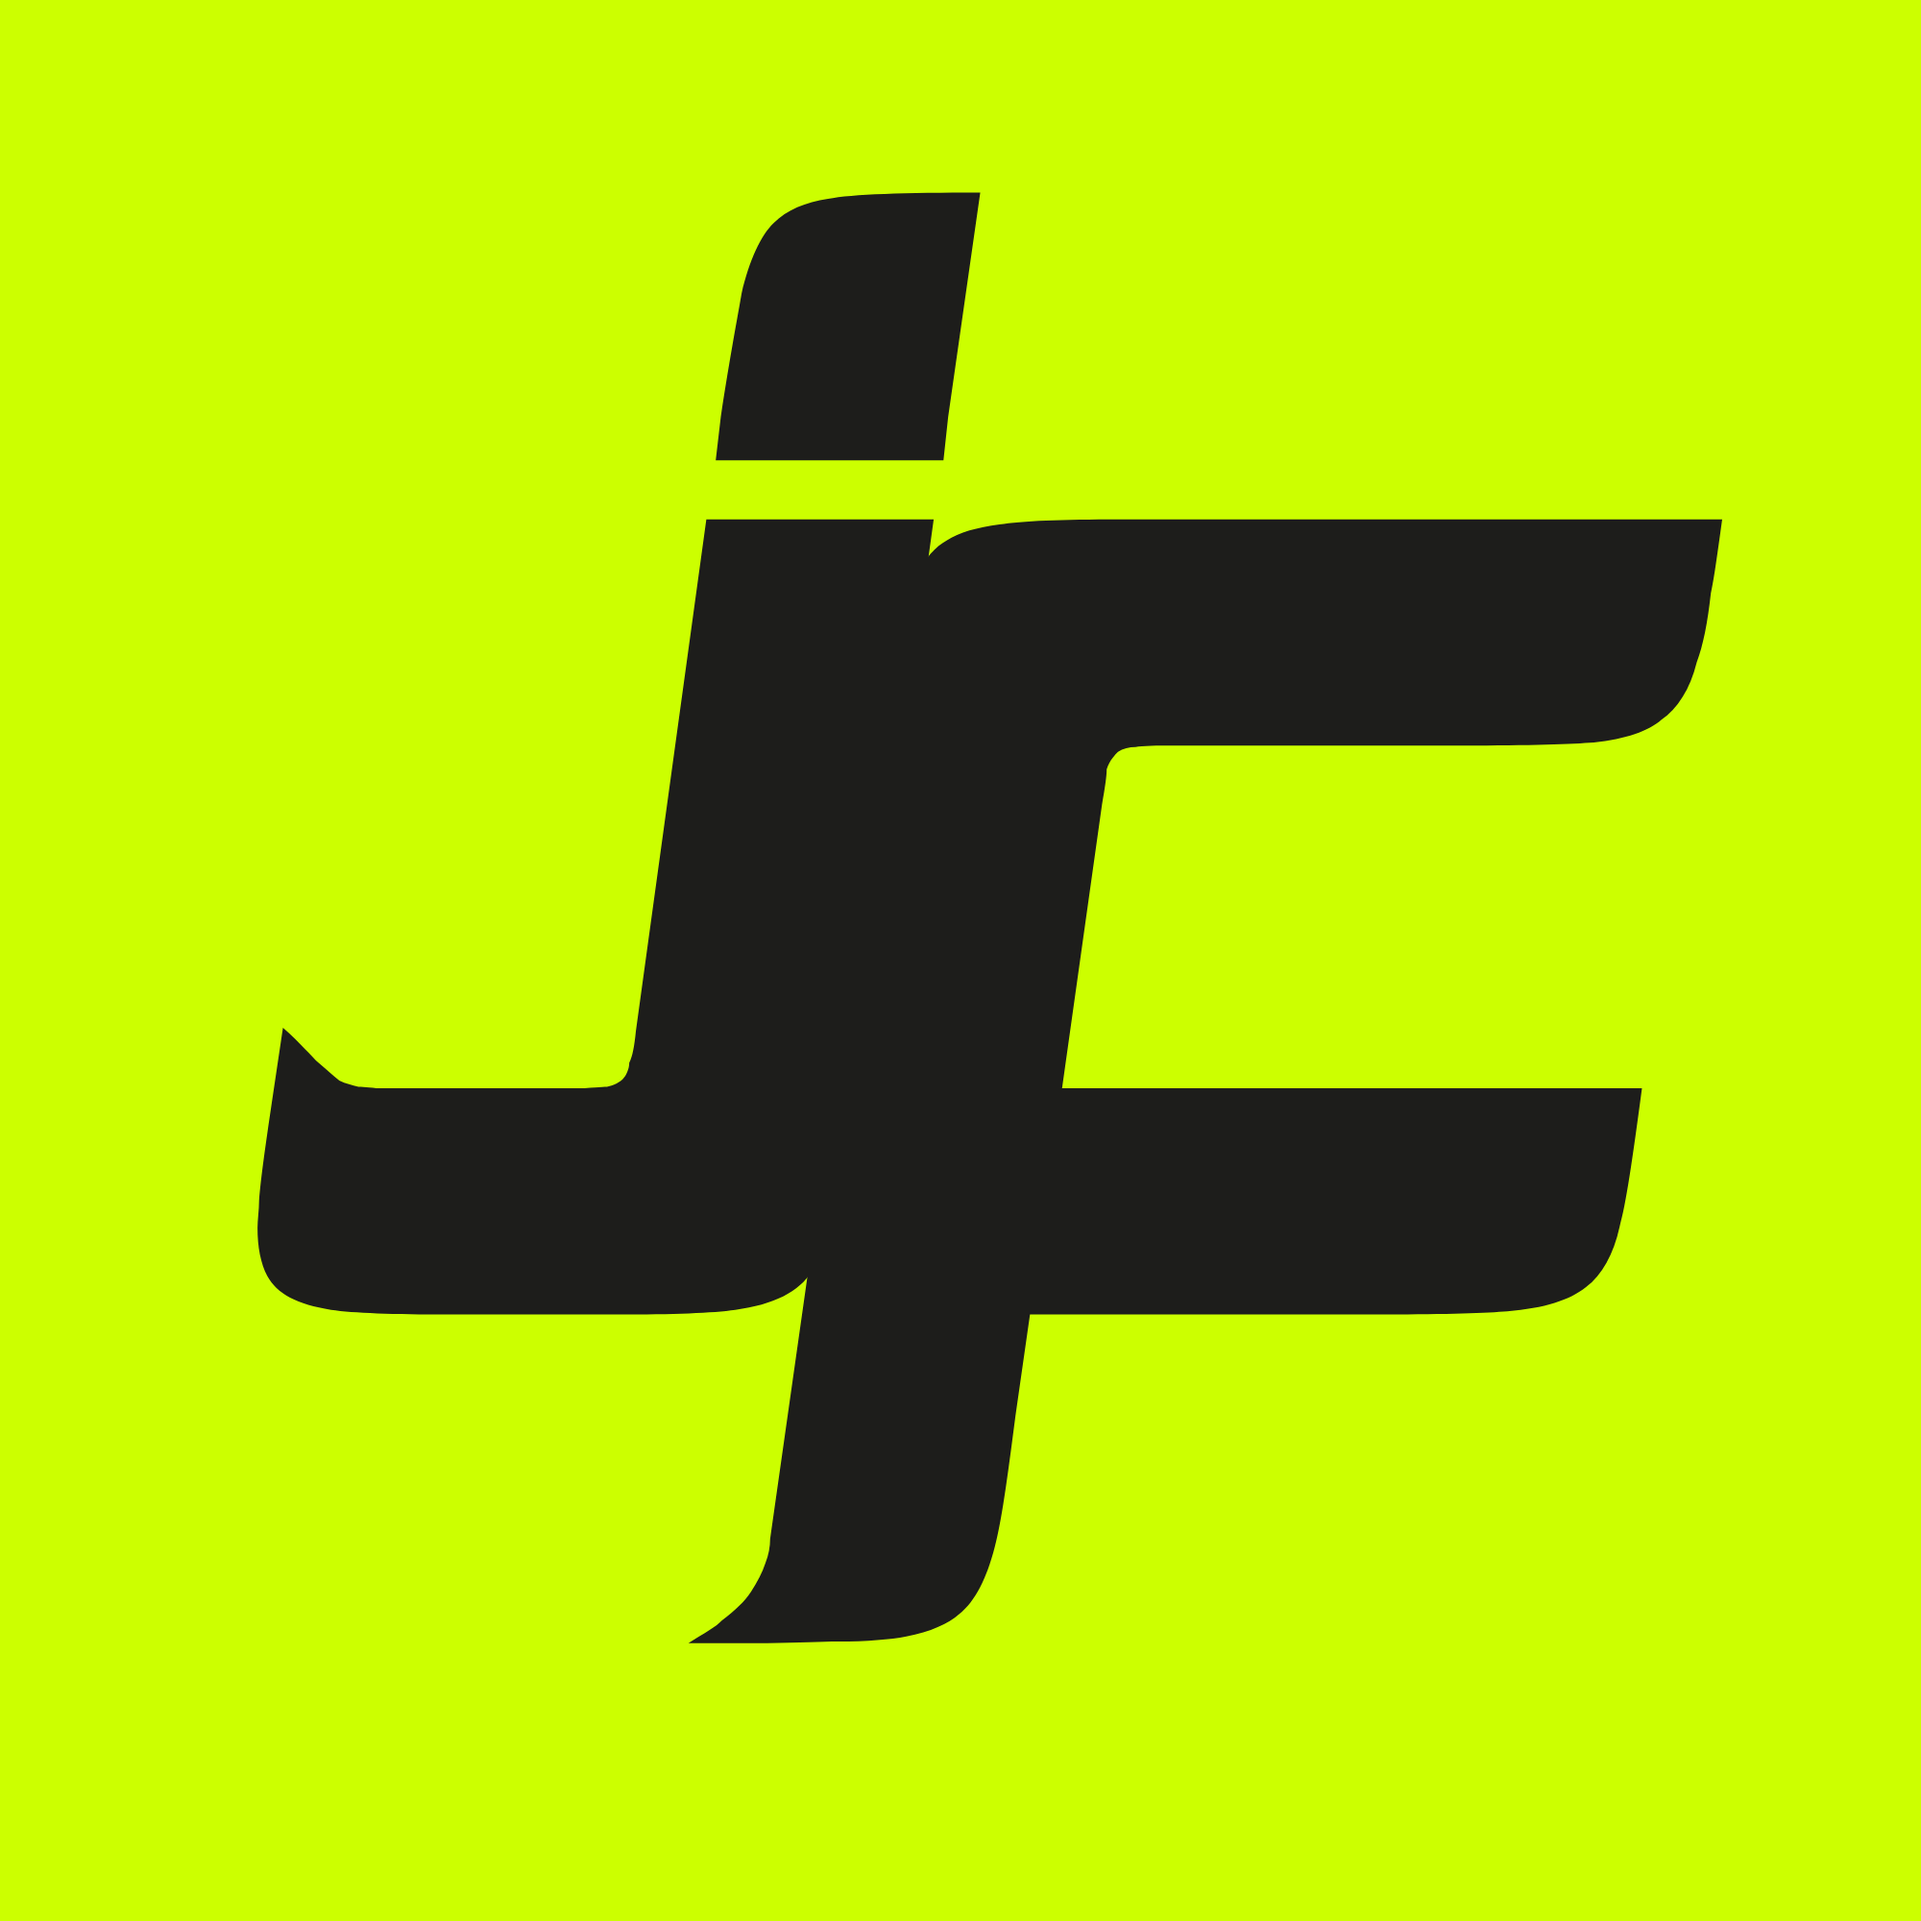
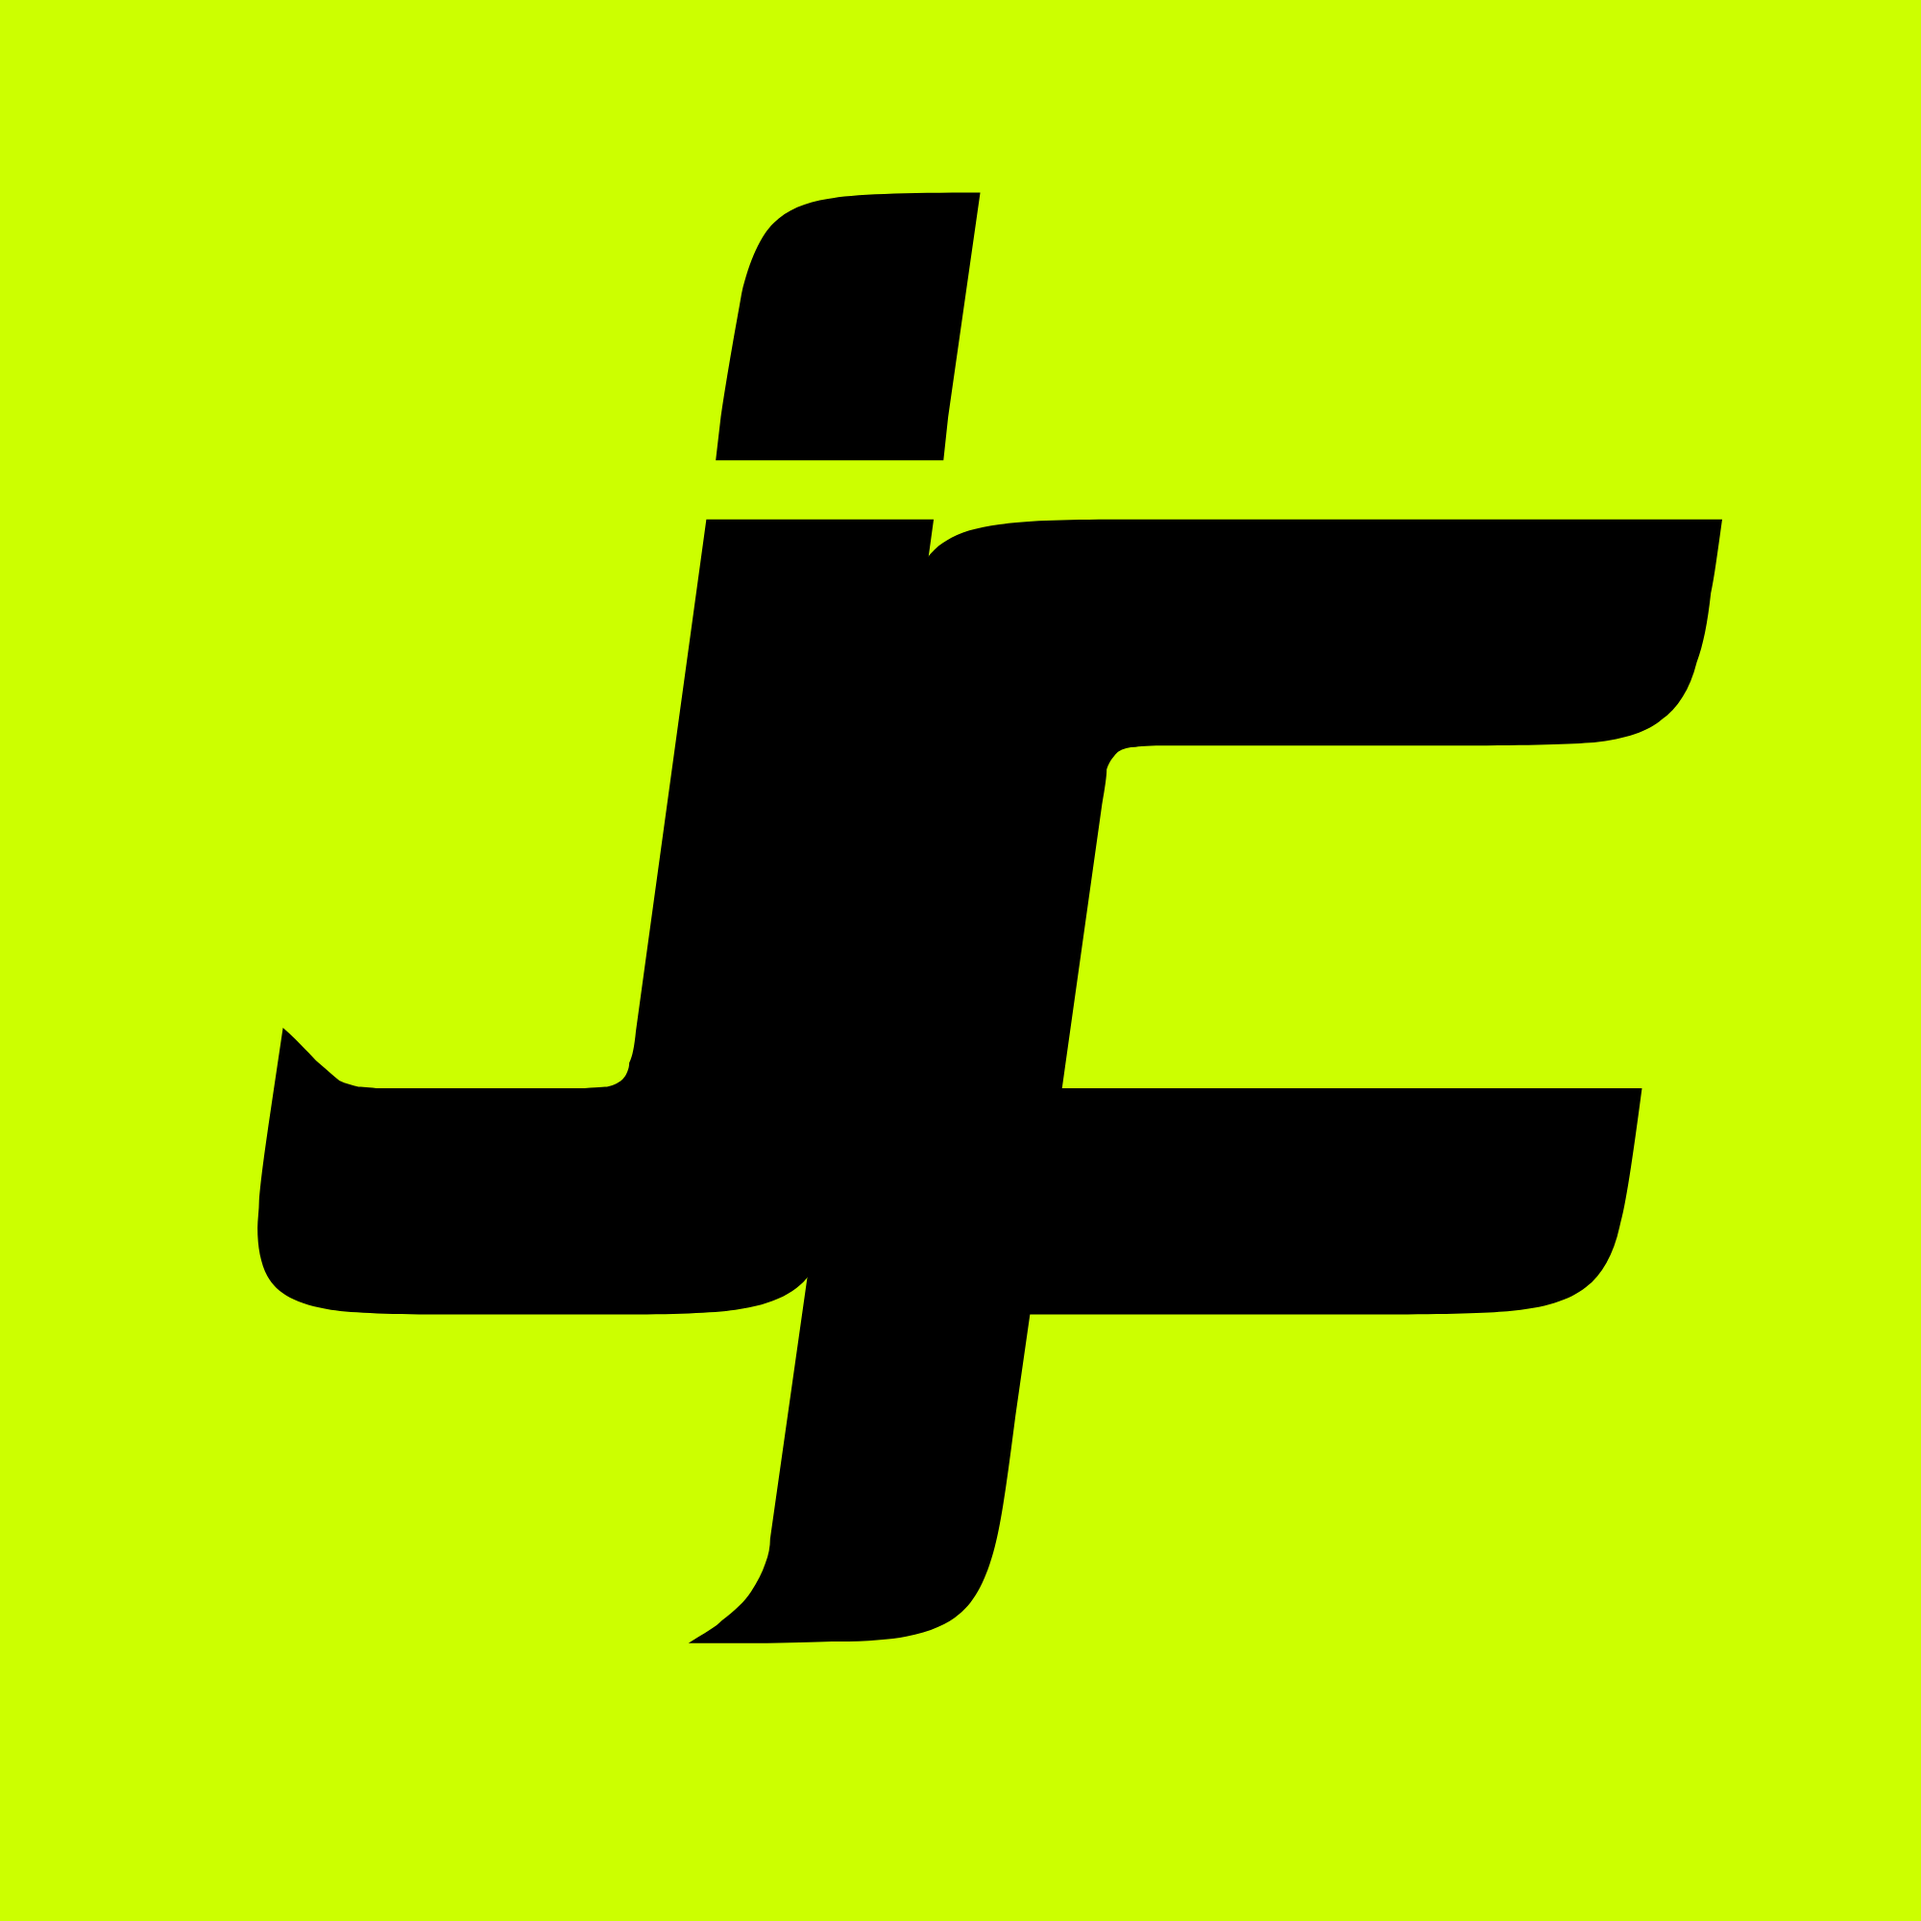
Icônes nettes avec un vrai noir.
- Régénérées depuis la source 2000 px (glyphe #000 au lieu de #1D1D1B)
- Versions maskable pour Android, zone sûre de 80 %
- ?v=2 sur les liens pour forcer iOS à recharger l'icône

Changed region(s): [[0.124, 0.093, 0.899, 0.868]]

diff --git a/public/index.html b/public/index.html
@@ -14,7 +14,8 @@
 
     <!-- PWA -->
     <link rel="manifest" href="/manifest.json" />
-    <link rel="apple-touch-icon" href="/apple-touch-icon.png" />
+    <!-- ?v= force iOS à recharger l'icône après un changement -->
+    <link rel="apple-touch-icon" sizes="180x180" href="/apple-touch-icon.png?v=2" />
     <meta name="apple-mobile-web-app-capable" content="yes" />
     <meta name="apple-mobile-web-app-status-bar-style" content="black-translucent" />
     <meta name="apple-mobile-web-app-title" content="J'aime le foot" />
